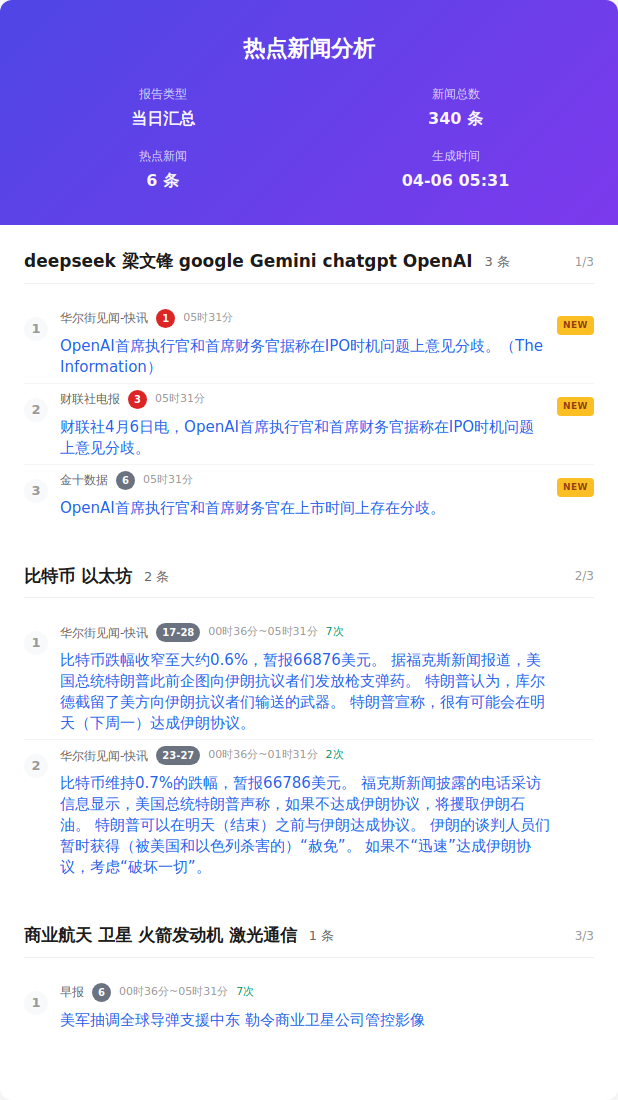
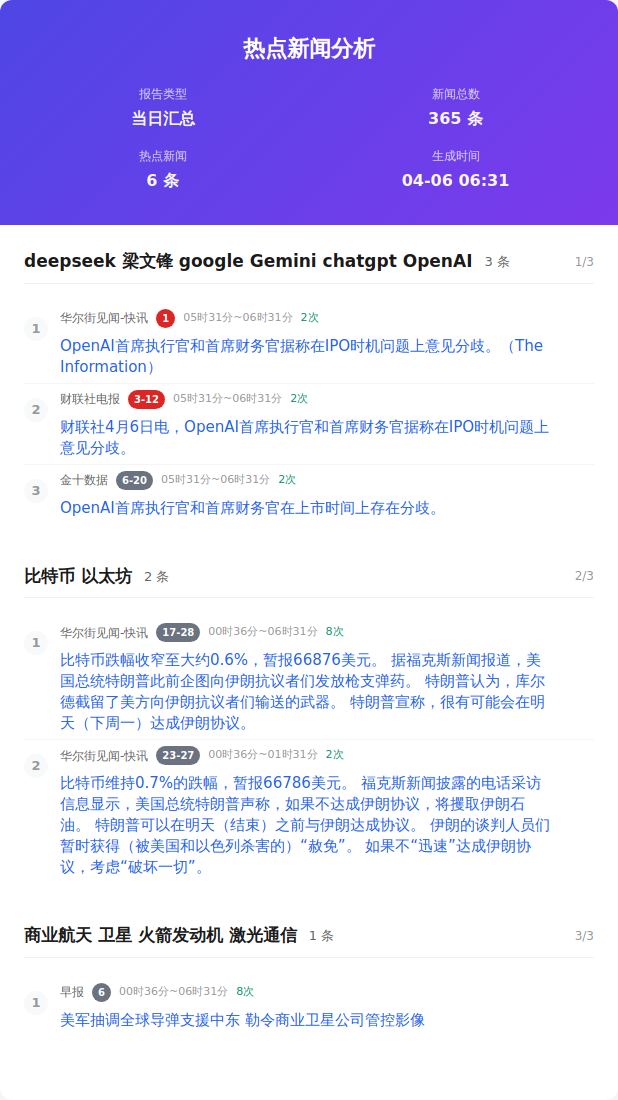
Auto update by GitHub Actions at Mon Apr  6 06:31:20 CST 2026

diff --git a/output/2026年04月06日/html/当日汇总.html b/output/2026年04月06日/html/当日汇总.html
@@ -357,7 +357,7 @@
                     </div>
                     <div class="info-item">
                         <span class="info-label">新闻总数</span>
-                        <span class="info-value">340 条</span>
+                        <span class="info-value">365 条</span>
                     </div>
                     <div class="info-item">
                         <span class="info-label">热点新闻</span>
@@ -365,7 +365,7 @@
                     </div>
                     <div class="info-item">
                         <span class="info-label">生成时间</span>
-                        <span class="info-value">04-06 05:31</span>
+                        <span class="info-value">04-06 06:31</span>
                     </div>
                 </div>
             </div>
@@ -379,31 +379,31 @@
                         </div>
                         <div class="word-index">1/3</div>
                     </div>
-                    <div class="news-item new">
+                    <div class="news-item ">
                         <div class="news-number">1</div>
                         <div class="news-content">
                             <div class="news-header">
-                                <span class="source-name">华尔街见闻-快讯</span><span class="rank-num top">1</span><span class="time-info">05时31分</span>
+                                <span class="source-name">华尔街见闻-快讯</span><span class="rank-num top">1</span><span class="time-info">05时31分~06时31分</span><span class="count-info">2次</span>
                             </div>
                             <div class="news-title"><a href="https://wallstreetcn.com/livenews/3082679" target="_blank" class="news-link">OpenAI首席执行官和首席财务官据称在IPO时机问题上意见分歧。（The Information）</a>
                             </div>
                         </div>
                     </div>
-                    <div class="news-item new">
+                    <div class="news-item ">
                         <div class="news-number">2</div>
                         <div class="news-content">
                             <div class="news-header">
-                                <span class="source-name">财联社电报</span><span class="rank-num top">3</span><span class="time-info">05时31分</span>
+                                <span class="source-name">财联社电报</span><span class="rank-num top">3-12</span><span class="time-info">05时31分~06时31分</span><span class="count-info">2次</span>
                             </div>
                             <div class="news-title"><a href="https://api3.cls.cn/share/article/2335606?os=web&amp;sv=8.4.6&amp;app=CailianpressWeb" target="_blank" class="news-link">财联社4月6日电，OpenAI首席执行官和首席财务官据称在IPO时机问题上意见分歧。</a>
                             </div>
                         </div>
                     </div>
-                    <div class="news-item new">
+                    <div class="news-item ">
                         <div class="news-number">3</div>
                         <div class="news-content">
                             <div class="news-header">
-                                <span class="source-name">金十数据</span><span class="rank-num ">6</span><span class="time-info">05时31分</span>
+                                <span class="source-name">金十数据</span><span class="rank-num ">6-20</span><span class="time-info">05时31分~06时31分</span><span class="count-info">2次</span>
                             </div>
                             <div class="news-title"><a href="https://flash.jin10.com/detail/20260406043433475800" target="_blank" class="news-link">OpenAI首席执行官和首席财务官在上市时间上存在分歧。</a>
                             </div>
@@ -422,7 +422,7 @@
                         <div class="news-number">1</div>
                         <div class="news-content">
                             <div class="news-header">
-                                <span class="source-name">华尔街见闻-快讯</span><span class="rank-num ">17-28</span><span class="time-info">00时36分~05时31分</span><span class="count-info">7次</span>
+                                <span class="source-name">华尔街见闻-快讯</span><span class="rank-num ">17-28</span><span class="time-info">00时36分~06时31分</span><span class="count-info">8次</span>
                             </div>
                             <div class="news-title"><a href="https://wallstreetcn.com/livenews/3082650" target="_blank" class="news-link">比特币跌幅收窄至大约0.6%，暂报66876美元。 据福克斯新闻报道，美国总统特朗普此前企图向伊朗抗议者们发放枪支弹药。 特朗普认为，库尔德截留了美方向伊朗抗议者们输送的武器。 特朗普宣称，很有可能会在明天（下周一）达成伊朗协议。</a>
                             </div>
@@ -451,7 +451,7 @@
                         <div class="news-number">1</div>
                         <div class="news-content">
                             <div class="news-header">
-                                <span class="source-name">早报</span><span class="rank-num ">6</span><span class="time-info">00时36分~05时31分</span><span class="count-info">7次</span>
+                                <span class="source-name">早报</span><span class="rank-num ">6</span><span class="time-info">00时36分~06时31分</span><span class="count-info">8次</span>
                             </div>
                             <div class="news-title"><a href="https://www.zaochenbao.com/news/politics/202604/0568622.html" target="_blank" class="news-link">美军抽调全球导弹支援中东 勒令商业卫星公司管控影像</a>
                             </div>